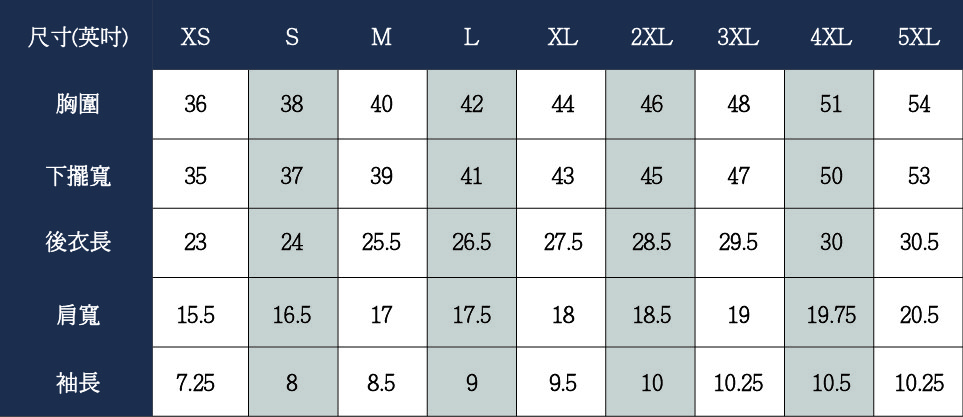
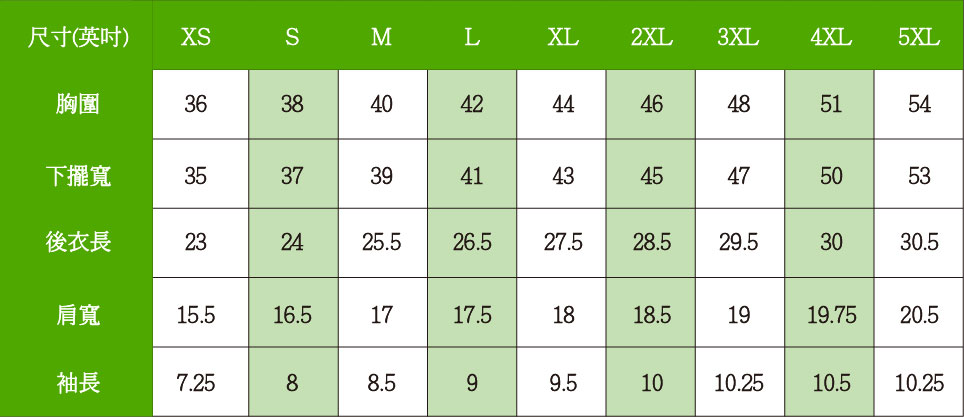
green

diff --git a/40_year.html b/40_year.html
@@ -21,6 +21,7 @@
 
     <div class="row max-1440">
         <div class="col-6">
+            <!--T-shirt圖-->
             <img src="assets/images/tshirt_demo.png">
         </div>
         <div class="col-6">
@@ -35,27 +36,27 @@
                 </tr>
                 <tr>
                     <td style="background-color:#C5E0B4;text-align:center;"><b>台北總部</b></td>
-                    <td style="background-color:#F2F2F2;color:#0000FF;"><b>2/19</b> &thinsp; 10:00-12:00 &nbsp;&nbsp;&nbsp; <b>2/21</b> &thinsp; 10:00-12:00 &nbsp;&nbsp;&nbsp; <b>2/25</b> &thinsp; 10:00-12:00&nbsp;</td>
+                    <td style="background-color:#F2F2F2;color:#4FA800;"><b>2/19</b> &thinsp; 10:00-12:00 &nbsp;&nbsp;&nbsp; <b>2/21</b> &thinsp; 10:00-12:00 &nbsp;&nbsp;&nbsp; <b>2/25</b> &thinsp; 10:00-12:00&nbsp;</td>
                 <td style="background-color:#F2F2F2;text-align:center;"><b>TBD</b></td>
                 </tr>
                 <tr>
                 <td style="background-color:#C5E0B4;text-align:center;"><b>SDBG</b></td>
-                <td style="background-color:#F2F2F2;color:#0000FF;"><b>2/20</b> &thinsp; 10:00-12:00 &nbsp;&nbsp;&nbsp; <b>2/22</b> &thinsp; 10:00-12:00</td>
+                <td style="background-color:#F2F2F2;color:#4FA800;"><b>2/20</b> &thinsp; 10:00-12:00 &nbsp;&nbsp;&nbsp; <b>2/22</b> &thinsp; 10:00-12:00</td>
                 <td style="background-color:#F2F2F2;text-align:center;"><b>R109</b></td>
                 </tr>
                 <tr>
                 <td style="background-color:#C5E0B4;text-align:center;"><b>平鎮</b></td>
-                <td style="background-color:#F2F2F2;color:#0000FF;"><b>2/20</b> &thinsp; 13:00-15:00 &nbsp;&nbsp;&nbsp; <b>2/22</b> &thinsp; 13:00-15:00</td>
+                <td style="background-color:#F2F2F2;color:#4FA800;"><b>2/20</b> &thinsp; 13:00-15:00 &nbsp;&nbsp;&nbsp; <b>2/22</b> &thinsp; 13:00-15:00</td>
                 <td style="background-color:#F2F2F2;text-align:center;"><b>TBD</b></td>
                 </tr>
                 <tr>
                 <td style="background-color:#C5E0B4;text-align:center;"><b>林口</b></td>
-                <td style="background-color:#F2F2F2;color:#0000FF;"><b>2/21</b> &thinsp; 13:00-15:00</td>
+                <td style="background-color:#F2F2F2;color:#4FA800;"><b>2/21</b> &thinsp; 13:00-15:00</td>
                 <td style="background-color:#F2F2F2;text-align:center;"><b>TBD</b></td>
                 </tr>
                 <tr>
                 <td style="background-color:#C5E0B4;text-align:center;"><b>高雄</b></td>
-                    <td style="background-color:#F2F2F2;color:#0000FF;"><b>2/21-2/27</b></td>
+                    <td style="background-color:#F2F2F2;color:#4FA800;"><b>2/21-2/27</b></td>
                 <td style="background-color:#F2F2F2;text-align:center;"></td>
                 </tr>
                 </table>
@@ -67,8 +68,8 @@
             <!--設計理念-->
             <div>
                <h3 style="font-size: 36px;text-align:center;padding-top:10px;"><b>製作設計理念</b></h3>
-               <p style="font-size: 20px;color:#4FA800;text-align:center;"><b>AI + Sustainability + 40</b></p>
-               <p style="font-size: 22px;padding-left: 50px;padding-right: 50px;">結合 AI/循環永續/40 元素，並將仁寶 logo 置於其中內核，象徵永續的驅動力。<br/>
+               <p style="font-size: 22px;color:#4FA800;text-align:center;"><b>AI + Sustainability + 40</b></p>
+               <p style="font-size: 24px;padding-left: 50px;padding-right: 50px;text-align:justify;">結合 AI/循環永續/40 元素，並將仁寶 logo 置於其中內核，象徵永續的驅動力。<br/>
                 紀念衣具透氣、濕排汗及抗 UV 功能，並由戶外用品品牌歐都納採可回收工法製作，持續守護環境永續。</p>
             </div>
         </div>
@@ -77,7 +78,7 @@
             <ul>
                 <li>提供每人 2 件紀念衣，請同仁務必清楚填寫下方登記資訊，以利後續發放作業。</li>
                 <li>取件除了瑕疵，不提供換尺寸。</li>
-                <li>登記期間：2/26-3/1，登記表於 3/1 關閉，未能在登記期間填寫尺寸之同仁，將提供女性同仁尺寸 L、男性同仁將提供尺寸 2XL。</li>
+                <li>登記期間：2/26-3/1，登記表於 3/1 關閉，未能在登記期間填寫尺寸之同仁，<span style="color:#4FA800;"><b>將提供女性同仁尺寸 L、男性同仁將提供尺寸 2XL</b></span>。</li>
                 <li>紀念衣規劃兩梯次發放(5月下旬及活動後)，六福村 40 週年暨家庭日須著紀念衣參與活動(請配偶或同行親友一同著裝)，故第一梯紀念衣會先發放給參加活動之同仁。</li>
             </ul>   
         </div>
@@ -99,7 +100,7 @@
             <h2 style="text-align: center; padding-top: 50px; padding-bottom: 20px; font-size: 30px;">真人試穿參考</h2> 
             <br/>
             <table style="width:100%;">
-                <tr style="background-color:#5B9BD5;color:white;text-align:center;">
+                <tr style="background-color:#4FA800;color:white;text-align:center;">
                   <th style="font-size: 20px;"><b>身高</b><br/><b>體重</b></th>
                   <th></th>
                   <th></th>
@@ -109,7 +110,7 @@
                   <th></th>
                   <th></th>
                 </tr>
-                <tr style="background-color:#D2DEEF;text-align:center;">
+                <tr style="background-color:#C5E0B4;text-align:center;">
                   <td style="font-size: 20px;"><b>尺寸</b></td>
                   <td></td>
                   <td></td>

diff --git a/assets/css/style.css b/assets/css/style.css
@@ -150,6 +150,7 @@ table, td, th
 li
 {
   font-size: 20px;
+  padding-bottom: 10px;
 }
 
 li::marker {
